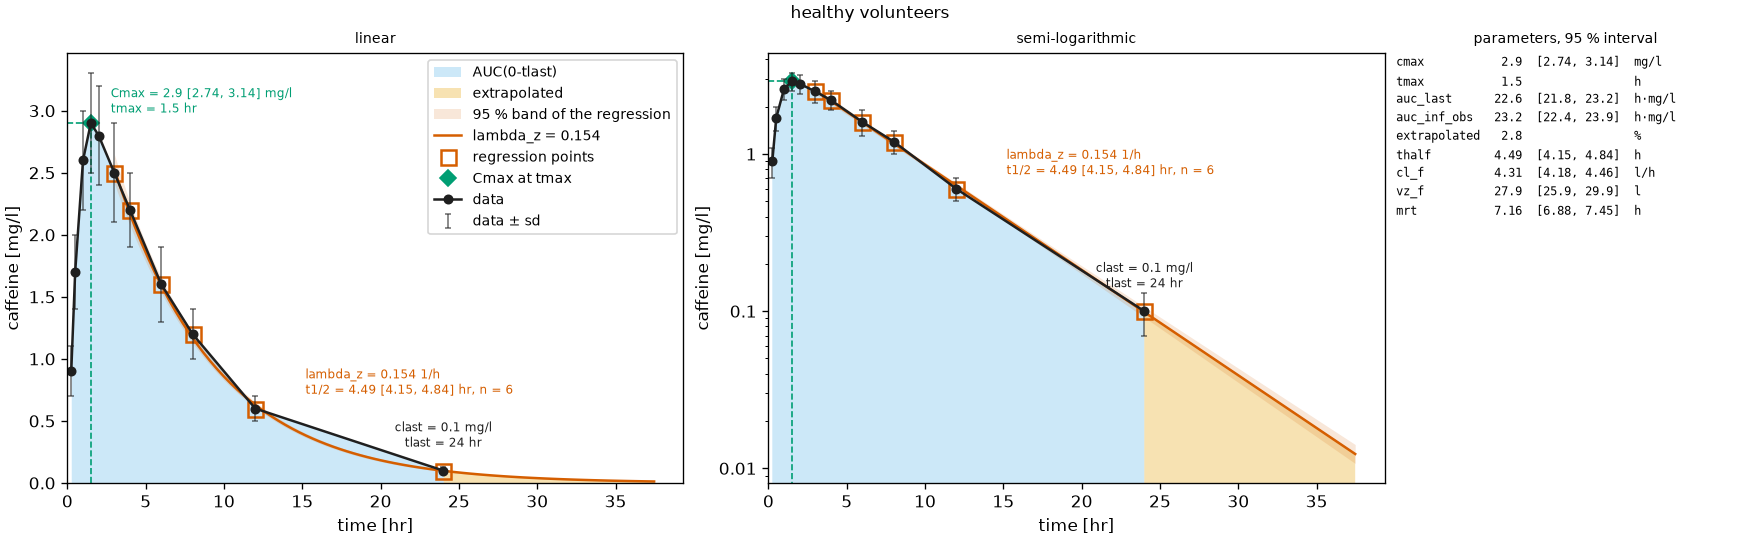
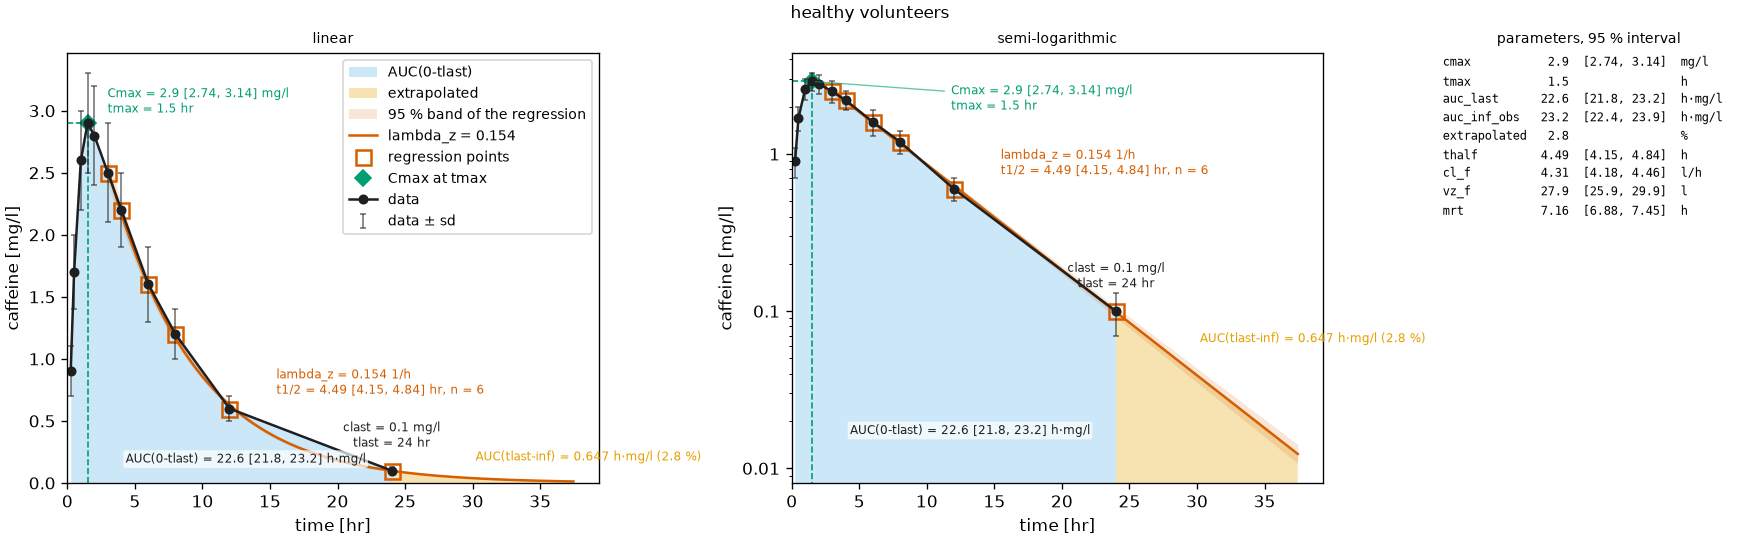
Write the areas, the tail, C0 and the peak of the logarithmic panel on the NCA figure
Claude-Session: https://claude.ai/code/session_017h5AZEctvrGTruqpqg4E2z

diff --git a/src/pkpdutils/plot/nca.py b/src/pkpdutils/plot/nca.py
@@ -303,7 +303,7 @@ def draw_nca_panel(
     with the points it used and its confidence band (`_terminal_band`), the
     peak \(C_\mathrm{max}\)/\(t_\mathrm{max}\) with its guide lines, \(C_0\)
     of a bolus, and the dose it analyses (an infusion as its window). With
-    `annotate` the peak (on a linear panel), the last point and the regression
+    `annotate` the areas, the peak, the last point, \\(C_0\\) and the regression
     carry their values on the plot, the interval of the half-life from the uncertainty analysis
     (`thalf_ci_low`/`thalf_ci_high`) or from the regression
     (`_thalf_interval`); the table of every parameter is the third panel of
@@ -368,6 +368,35 @@ def draw_nca_panel(
             linewidth=0,
             label=auc_label,
         )
+        if annotate:
+            auc_name = "auc_tau" if steady_state else "auc_last"
+            auc_text = _quantity_text(values, units, auc_name)
+            if auc_text:
+                # inside the area, at a third of its width and height
+                x_area, c_area = t[area], c[area]
+                x_text = 0.55 * auc_bound
+                top = float(np.interp(x_text, x_area, c_area))
+                bottom = ax.get_ylim()[0]
+                y_text = (
+                    float(np.sqrt(max(top, 1e-300) * max(bottom, top * 1e-3)))
+                    if log_y
+                    else 0.35 * top
+                )
+                ax.text(
+                    x_text,
+                    y_text,
+                    f"{auc_label} = {auc_text}",
+                    fontsize=fontsize,
+                    color=style.data_color,
+                    ha="center",
+                    va="center",
+                    bbox={
+                        "boxstyle": "round,pad=0.2",
+                        "fc": "white",
+                        "ec": "none",
+                        "alpha": 0.7,
+                    },
+                )
     t_end = tlast + 3.0 * thalf if np.isfinite(thalf) else np.nan
     if np.isfinite(lambda_z) and np.isfinite(tlast) and np.isfinite(t_end):
         t_ext = np.linspace(tlast, t_end, 50)
@@ -381,6 +410,24 @@ def draw_nca_panel(
             linewidth=0,
             label="extrapolated",
         )
+        auc_inf = values.get("auc_inf_obs", np.nan)
+        auc_last = values.get("auc_last", np.nan)
+        if annotate and np.isfinite(auc_inf) and np.isfinite(auc_last):
+            tail = auc_inf - auc_last
+            fraction = values.get("auc_extrap_fraction", np.nan)
+            share = f" ({100.0 * fraction:.2g} %)" if np.isfinite(fraction) else ""
+            unit = unit_of("auc_inf_obs")
+            x_tail = tlast + thalf
+            ax.annotate(
+                f"AUC(tlast-inf) = {tail:.3g} {unit}{share}".rstrip(),
+                xy=(x_tail, float(clast * np.exp(-lambda_z * thalf))),
+                xytext=(14, 8),
+                textcoords="offset points",
+                fontsize=fontsize,
+                color=style.extrapolation_color,
+                ha="left",
+                va="bottom",
+            )
     t_first = values.get("lambda_z_t_first", np.nan)
     if np.isfinite(lambda_z) and np.isfinite(tlast) and np.isfinite(t_first):
         t_fit = np.linspace(t_first, t_end, 80)
@@ -457,21 +504,45 @@ def draw_nca_panel(
             markersize=style.markersize + 2,
             label="Cmax at tmax",
         )
-        # the peak sits at the top of a logarithmic panel among the first
-        # regression points, where its text would cover them: that panel is
-        # the one of the terminal phase and leaves the peak to the marker
-        if annotate and not log_y:
-            ax.annotate(
+        if annotate:
+            peak_text = (
                 f"Cmax = {_quantity_text(values, units, 'cmax') or f'{cmax:.3g}'}"
-                f"\ntmax = {tmax:.3g} {time_unit}",
-                xy=(tmax, cmax),
-                xytext=(12, 4),
-                textcoords="offset points",
-                fontsize=fontsize,
-                color=style.peak_color,
-                ha="left",
-                va="bottom",
+                f"\ntmax = {tmax:.3g} {time_unit}"
             )
+            if log_y:
+                # the peak sits at the top of a logarithmic panel among the
+                # first regression points: the text goes to the empty upper
+                # right corner with a leader line to the marker
+                ax.annotate(
+                    peak_text,
+                    xy=(tmax, cmax),
+                    xytext=(0.3, 0.93),
+                    textcoords="axes fraction",
+                    fontsize=fontsize,
+                    color=style.peak_color,
+                    ha="left",
+                    va="top",
+                    arrowprops={
+                        "arrowstyle": "-",
+                        "color": style.peak_color,
+                        "linewidth": 0.8,
+                        "alpha": 0.6,
+                    },
+                )
+            else:
+                # a bolus writes its C0 above the first point, so the peak
+                # of a bolus (the same point, or the next) goes below it
+                has_c0 = np.isfinite(values.get("c0", np.nan))
+                ax.annotate(
+                    peak_text,
+                    xy=(tmax, cmax),
+                    xytext=(12, -12) if has_c0 else (12, 4),
+                    textcoords="offset points",
+                    fontsize=fontsize,
+                    color=style.peak_color,
+                    ha="left",
+                    va="top" if has_c0 else "bottom",
+                )
     if annotate and np.isfinite(tlast) and np.isfinite(clast):
         ax.annotate(
             f"clast = {clast:.3g} {value_unit}\ntlast = {tlast:.3g} {time_unit}",
@@ -494,6 +565,19 @@ def draw_nca_panel(
             markersize=style.markersize + 1,
             label="C0",
         )
+        if annotate:
+            # C0 is the top of the panel: its text goes to the right of the
+            # marker, the peak text (the next point) below it
+            ax.annotate(
+                f"C0 = {_quantity_text(values, units, 'c0') or f'{c0:.3g}'}",
+                xy=(0.0, c0),
+                xytext=(12, 0),
+                textcoords="offset points",
+                fontsize=fontsize,
+                color=style.fit_color,
+                ha="left",
+                va="center",
+            )
     error = None
     if spread == "sd" and tc.sd is not None:
         error = np.asarray(tc.sd, dtype=float)

diff --git a/tests/plot/test_plot_nca.py b/tests/plot/test_plot_nca.py
@@ -132,6 +132,10 @@ def test_plot_nca_iv_bolus_marks_c0() -> None:
     fig = plot_nca(tc, nca_single(tc), style=PlotStyle(fit_color="red"))
     labels = {line.get_label() for line in fig.axes[0].get_lines()}
     assert "C0" in labels
+    assert any(
+        text.get_text().startswith("C0 = ") and "ng/ml" in text.get_text()
+        for text in fig.axes[0].texts
+    ) or any(text.get_text().startswith("C0 = ") for text in fig.axes[0].texts)
     matplotlib.pyplot.close(fig)
 
 
@@ -498,8 +502,14 @@ def test_plot_nca_annotates_the_parameters_on_the_plot() -> None:
         t.startswith("lambda_z = ") and "t1/2 = " in t and "n = " in t for t in texts
     )
     assert any(t.startswith("clast = ") and "tlast = 24 hr" in t for t in texts)
+    # the areas carry their values, the tail its share
+    assert any(t.startswith("AUC(0-tlast) = 22.6") and "h⋅mg/l" in t for t in texts)
+    assert any(t.startswith("AUC(tlast-inf) = ") and "%)" in t for t in texts)
     # the intervals of the uncertainty analysis are in the annotation
     assert any("Cmax = 2.9 [" in t for t in texts)
+    # the logarithmic panel names the peak as well, with a leader line
+    log_texts = [text.get_text() for text in fig.axes[1].texts]
+    assert any(t.startswith("Cmax = 2.9") for t in log_texts)
     # the parameter table of the third panel
     table = fig.axes[2].texts[0].get_text()
     assert "cmax" in table and "mg/l" in table and "[" in table
